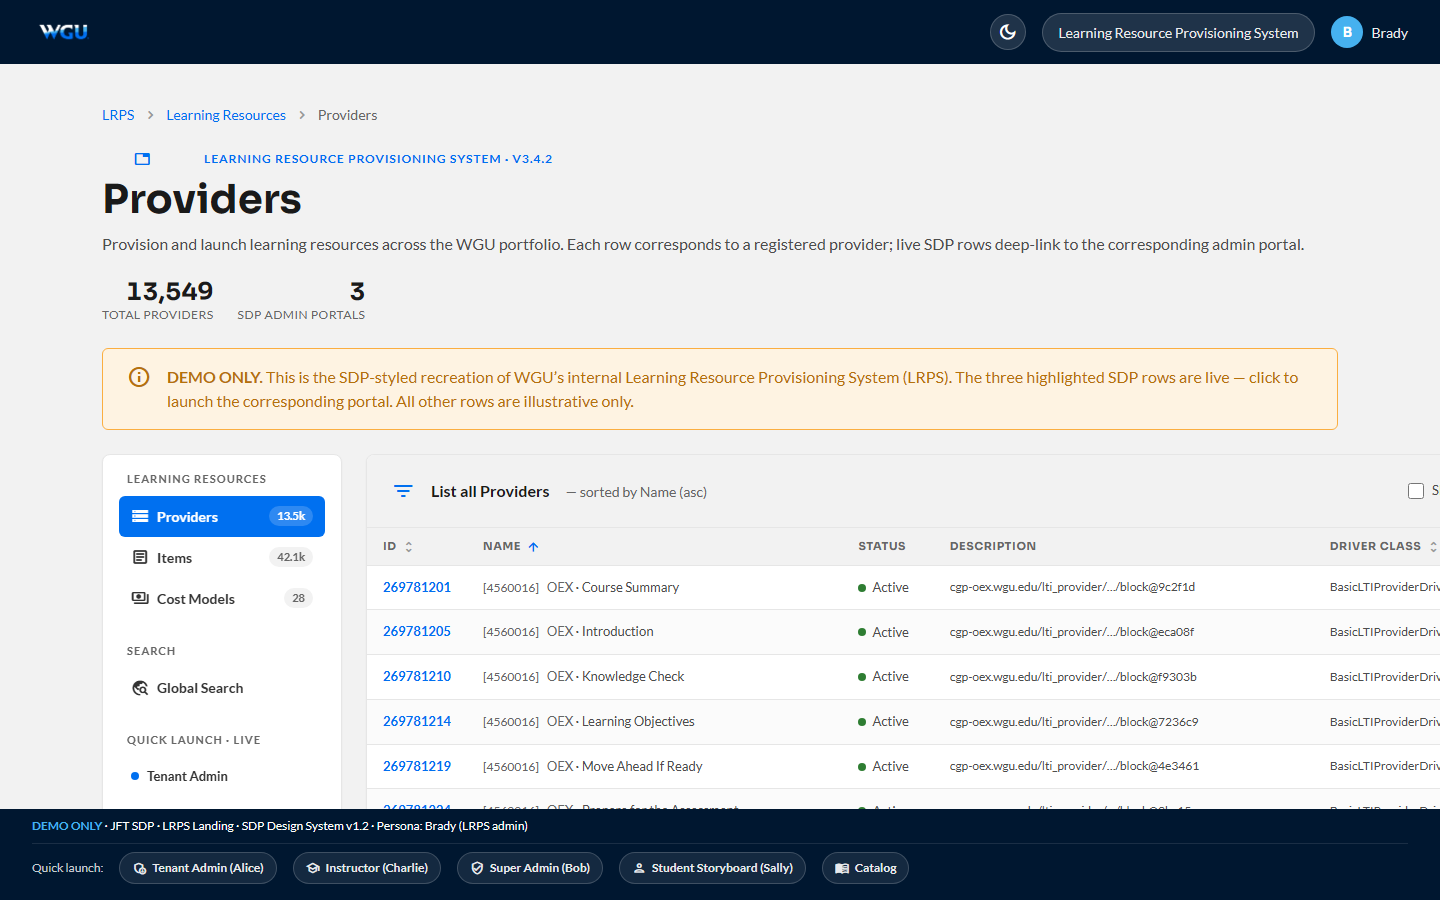
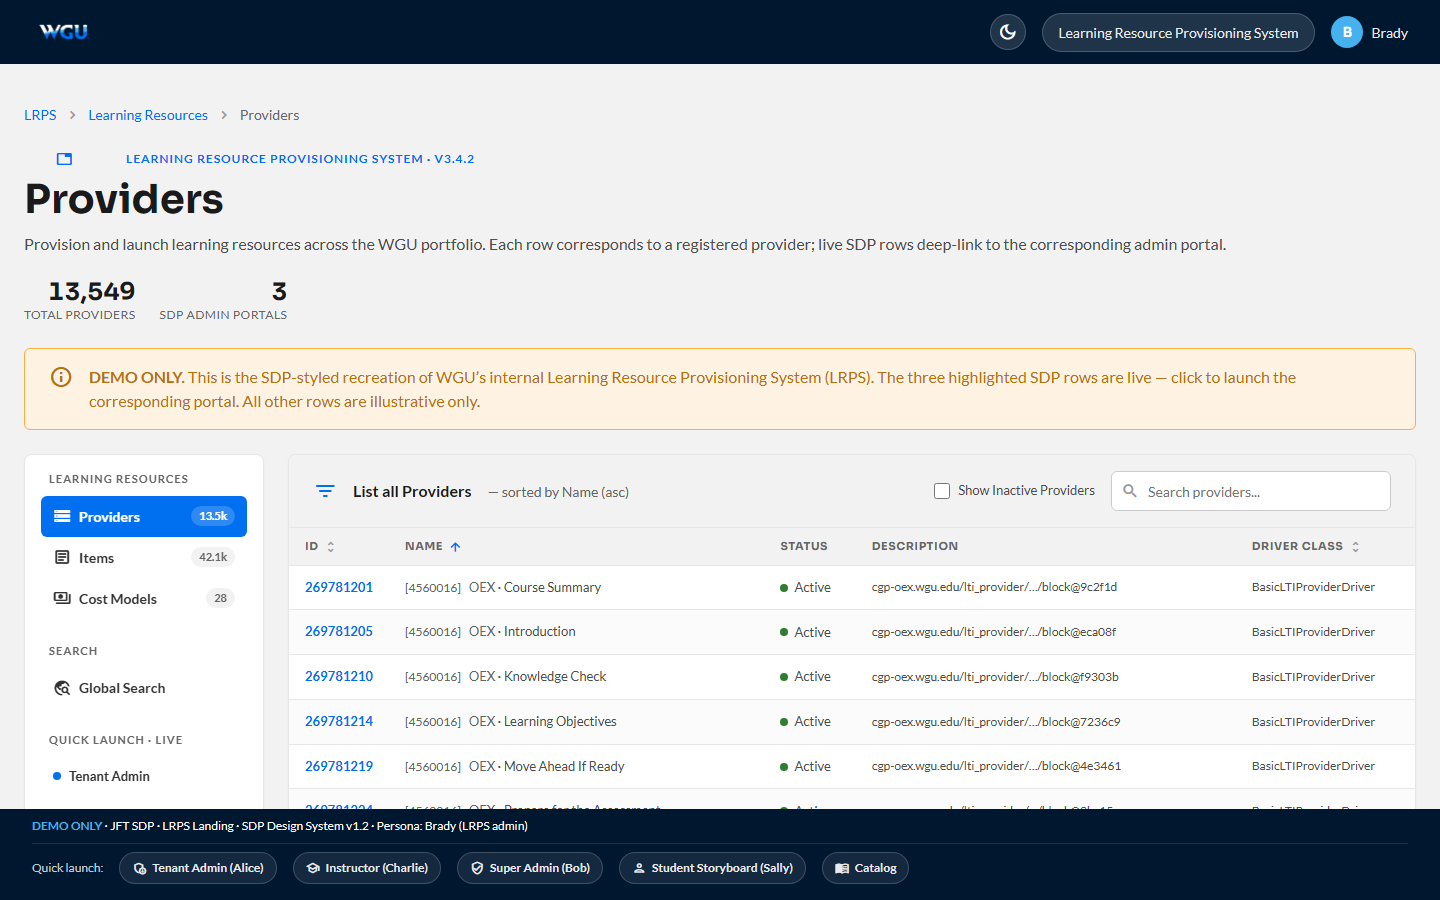
Fix LRPS layout — eliminate the big left gutter
The 1300px max-width was too narrow for an admin tool that needs
to surface a 7-column data table; on a 1700px+ viewport it left
about 200px of empty gutter on each side and pushed the table card
into horizontal-scroll mode.

Two changes:
- Bump --pgn-size-container-max-width-lg from 1300px to 1920px so
  the page uses the full standard widescreen viewport with just
  the standard side padding.
- Tighten container side padding from spacing-4 (32px) to spacing-3
  (24px). Add minmax(0, 1fr) on the lrps-shell main column so the
  scrollable table-card stays inside its grid cell instead of
  influencing track sizing.

Net effect: at 1700px the content now reaches edge-to-edge with
24px gutters, and the table card no longer needs horizontal
scroll for the most-used columns. Sidebar still 240px sticky.

Screenshots regenerated for both themes.

diff --git a/lrps.html b/lrps.html
@@ -80,7 +80,7 @@
       --pgn-size-border-radius-lg:   0.5rem;
       --pgn-size-border-radius-sm:   0.25rem;
       --pgn-size-rounded-pill:       50rem;
-      --pgn-size-container-max-width-lg: 1300px;
+      --pgn-size-container-max-width-lg: 1920px;
 
       --pgn-font-family-heading: 'Sora', 'Segoe UI', Arial, sans-serif;
       --pgn-font-family-body: 'Lato', 'Segoe UI', Arial, sans-serif;
@@ -194,11 +194,11 @@
     .container {
       max-width: var(--pgn-size-container-max-width-lg);
       width: 100%; margin: 0 auto;
-      padding-left: var(--pgn-spacing-4); padding-right: var(--pgn-spacing-4);
+      padding-left: var(--pgn-spacing-3); padding-right: var(--pgn-spacing-3);
     }
     .lrps-shell {
       display: grid;
-      grid-template-columns: 240px 1fr;
+      grid-template-columns: 240px minmax(0, 1fr);
       gap: var(--pgn-spacing-3);
       align-items: start;
     }
